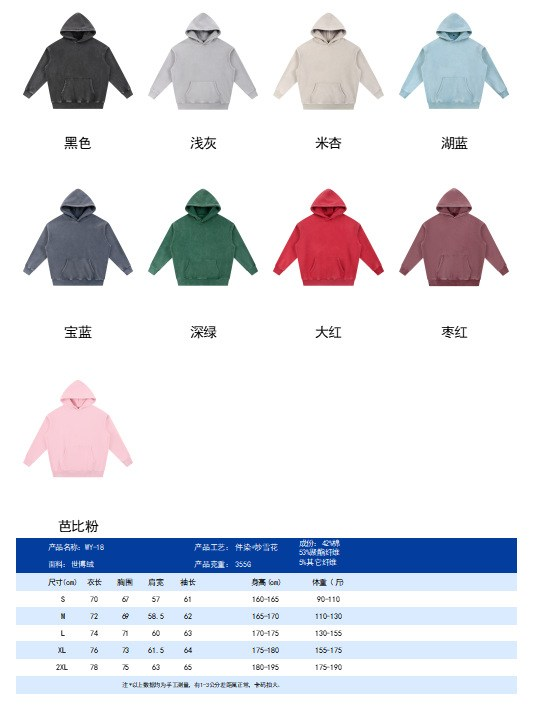
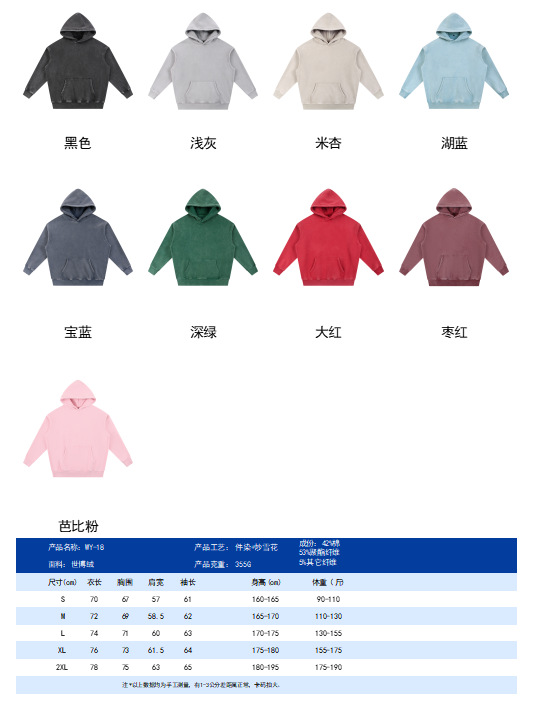
feat(WY18): add authentic size chart and sizing guide for WY18 vintage snow-washed fleece hoodie

diff --git a/index.html b/index.html
@@ -8,7 +8,7 @@
   <link rel="preconnect" href="https://fonts.googleapis.com">
   <link rel="preconnect" href="https://fonts.gstatic.com" crossorigin>
   <link href="https://fonts.googleapis.com/css2?family=Plus+Jakarta+Sans:wght@400;500;600;700;800&display=swap" rel="stylesheet">
-  <link rel="stylesheet" href="styles.css?v=87">
+  <link rel="stylesheet" href="styles.css?v=88">
 </head>
 <body class="theme-light">
   <!-- Mobile Viewport Wrapper (Native Fullscreen Mobile View) -->
@@ -1217,8 +1217,8 @@
   <!-- Floating Toast Notification -->
   <div class="app-toast" id="appToast">Notification</div>
 
-  <script src="prints_data.js?v=87"></script>
-  <script src="products_data.js?v=87"></script>
-  <script src="app.js?v=87"></script>
+  <script src="prints_data.js?v=88"></script>
+  <script src="products_data.js?v=88"></script>
+  <script src="app.js?v=88"></script>
 </body>
 </html>

diff --git a/products_data.js b/products_data.js
@@ -2433,7 +2433,15 @@
                                       "assets/products/WY18/detail/4.jpg",
                                       "assets/products/WY18/detail/5.jpg",
                                       "assets/products/WY18/detail/6.jpg"
-                                  ]
+                                  ],
+                 "sizes":  [
+                               "S",
+                               "M",
+                               "L",
+                               "XL",
+                               "2XL"
+                           ],
+                 "sizeChart":  "assets/products/WY18/size/size_chart_garment.jpg"
              },
     "W350":  {
                  "id":  "W350",
